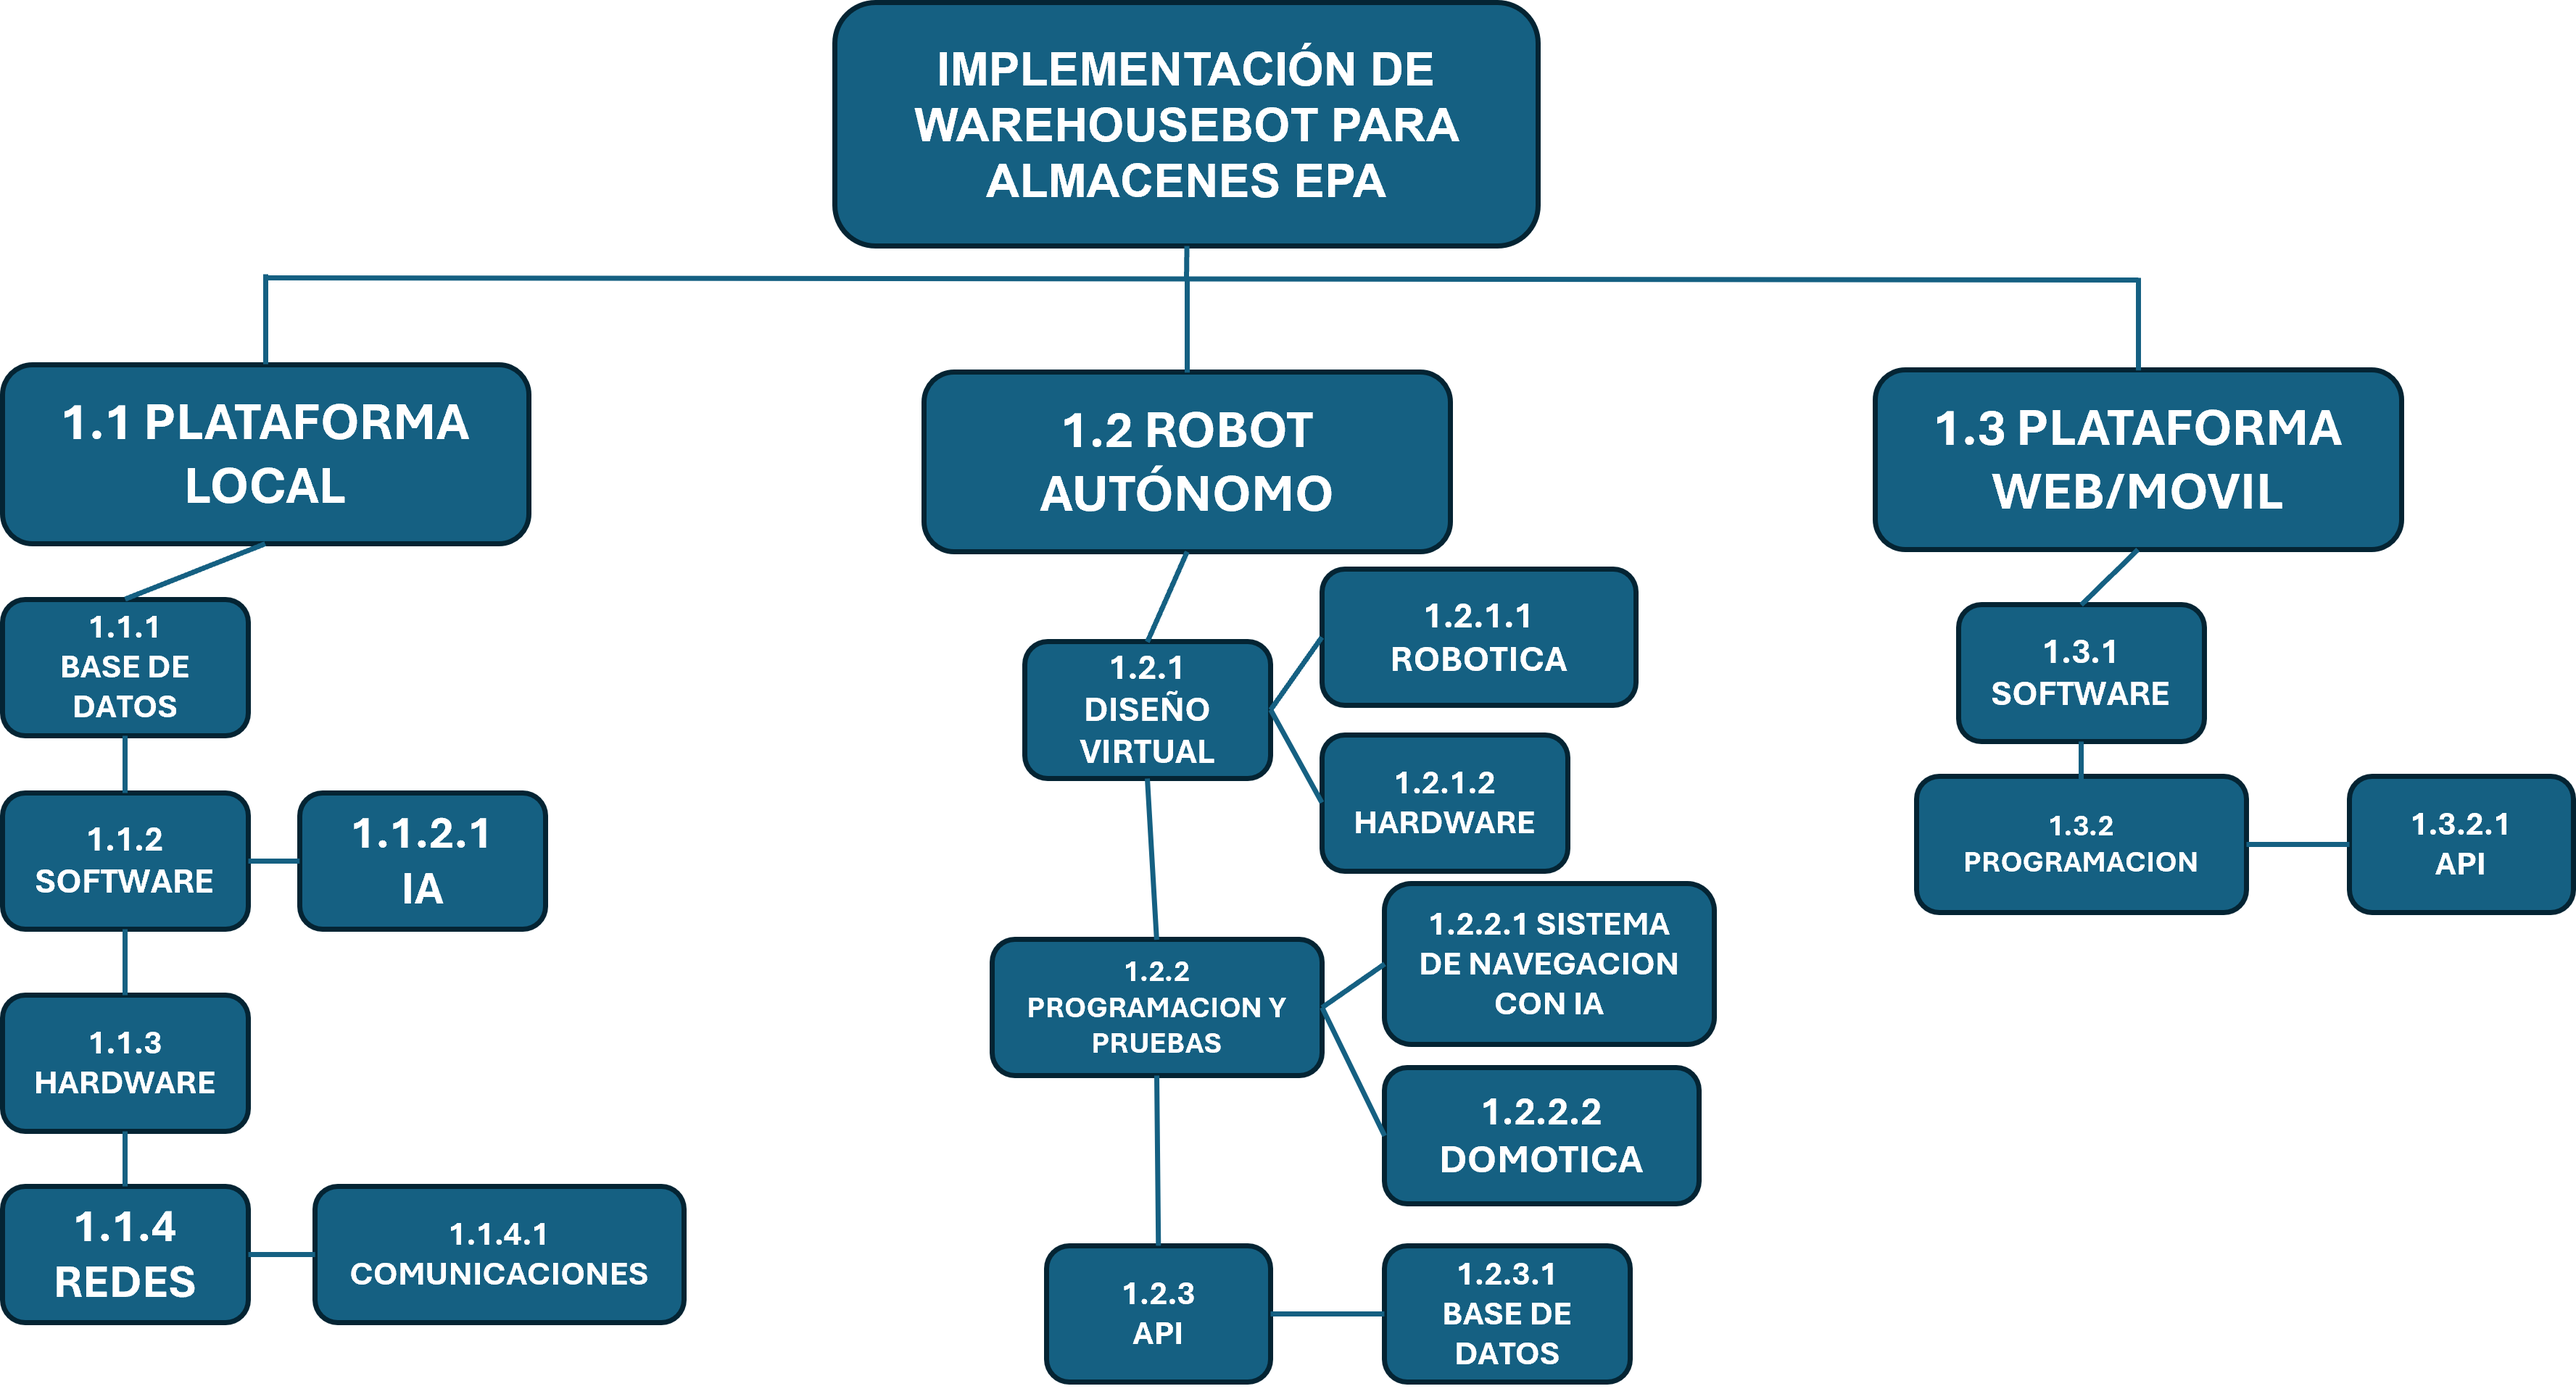
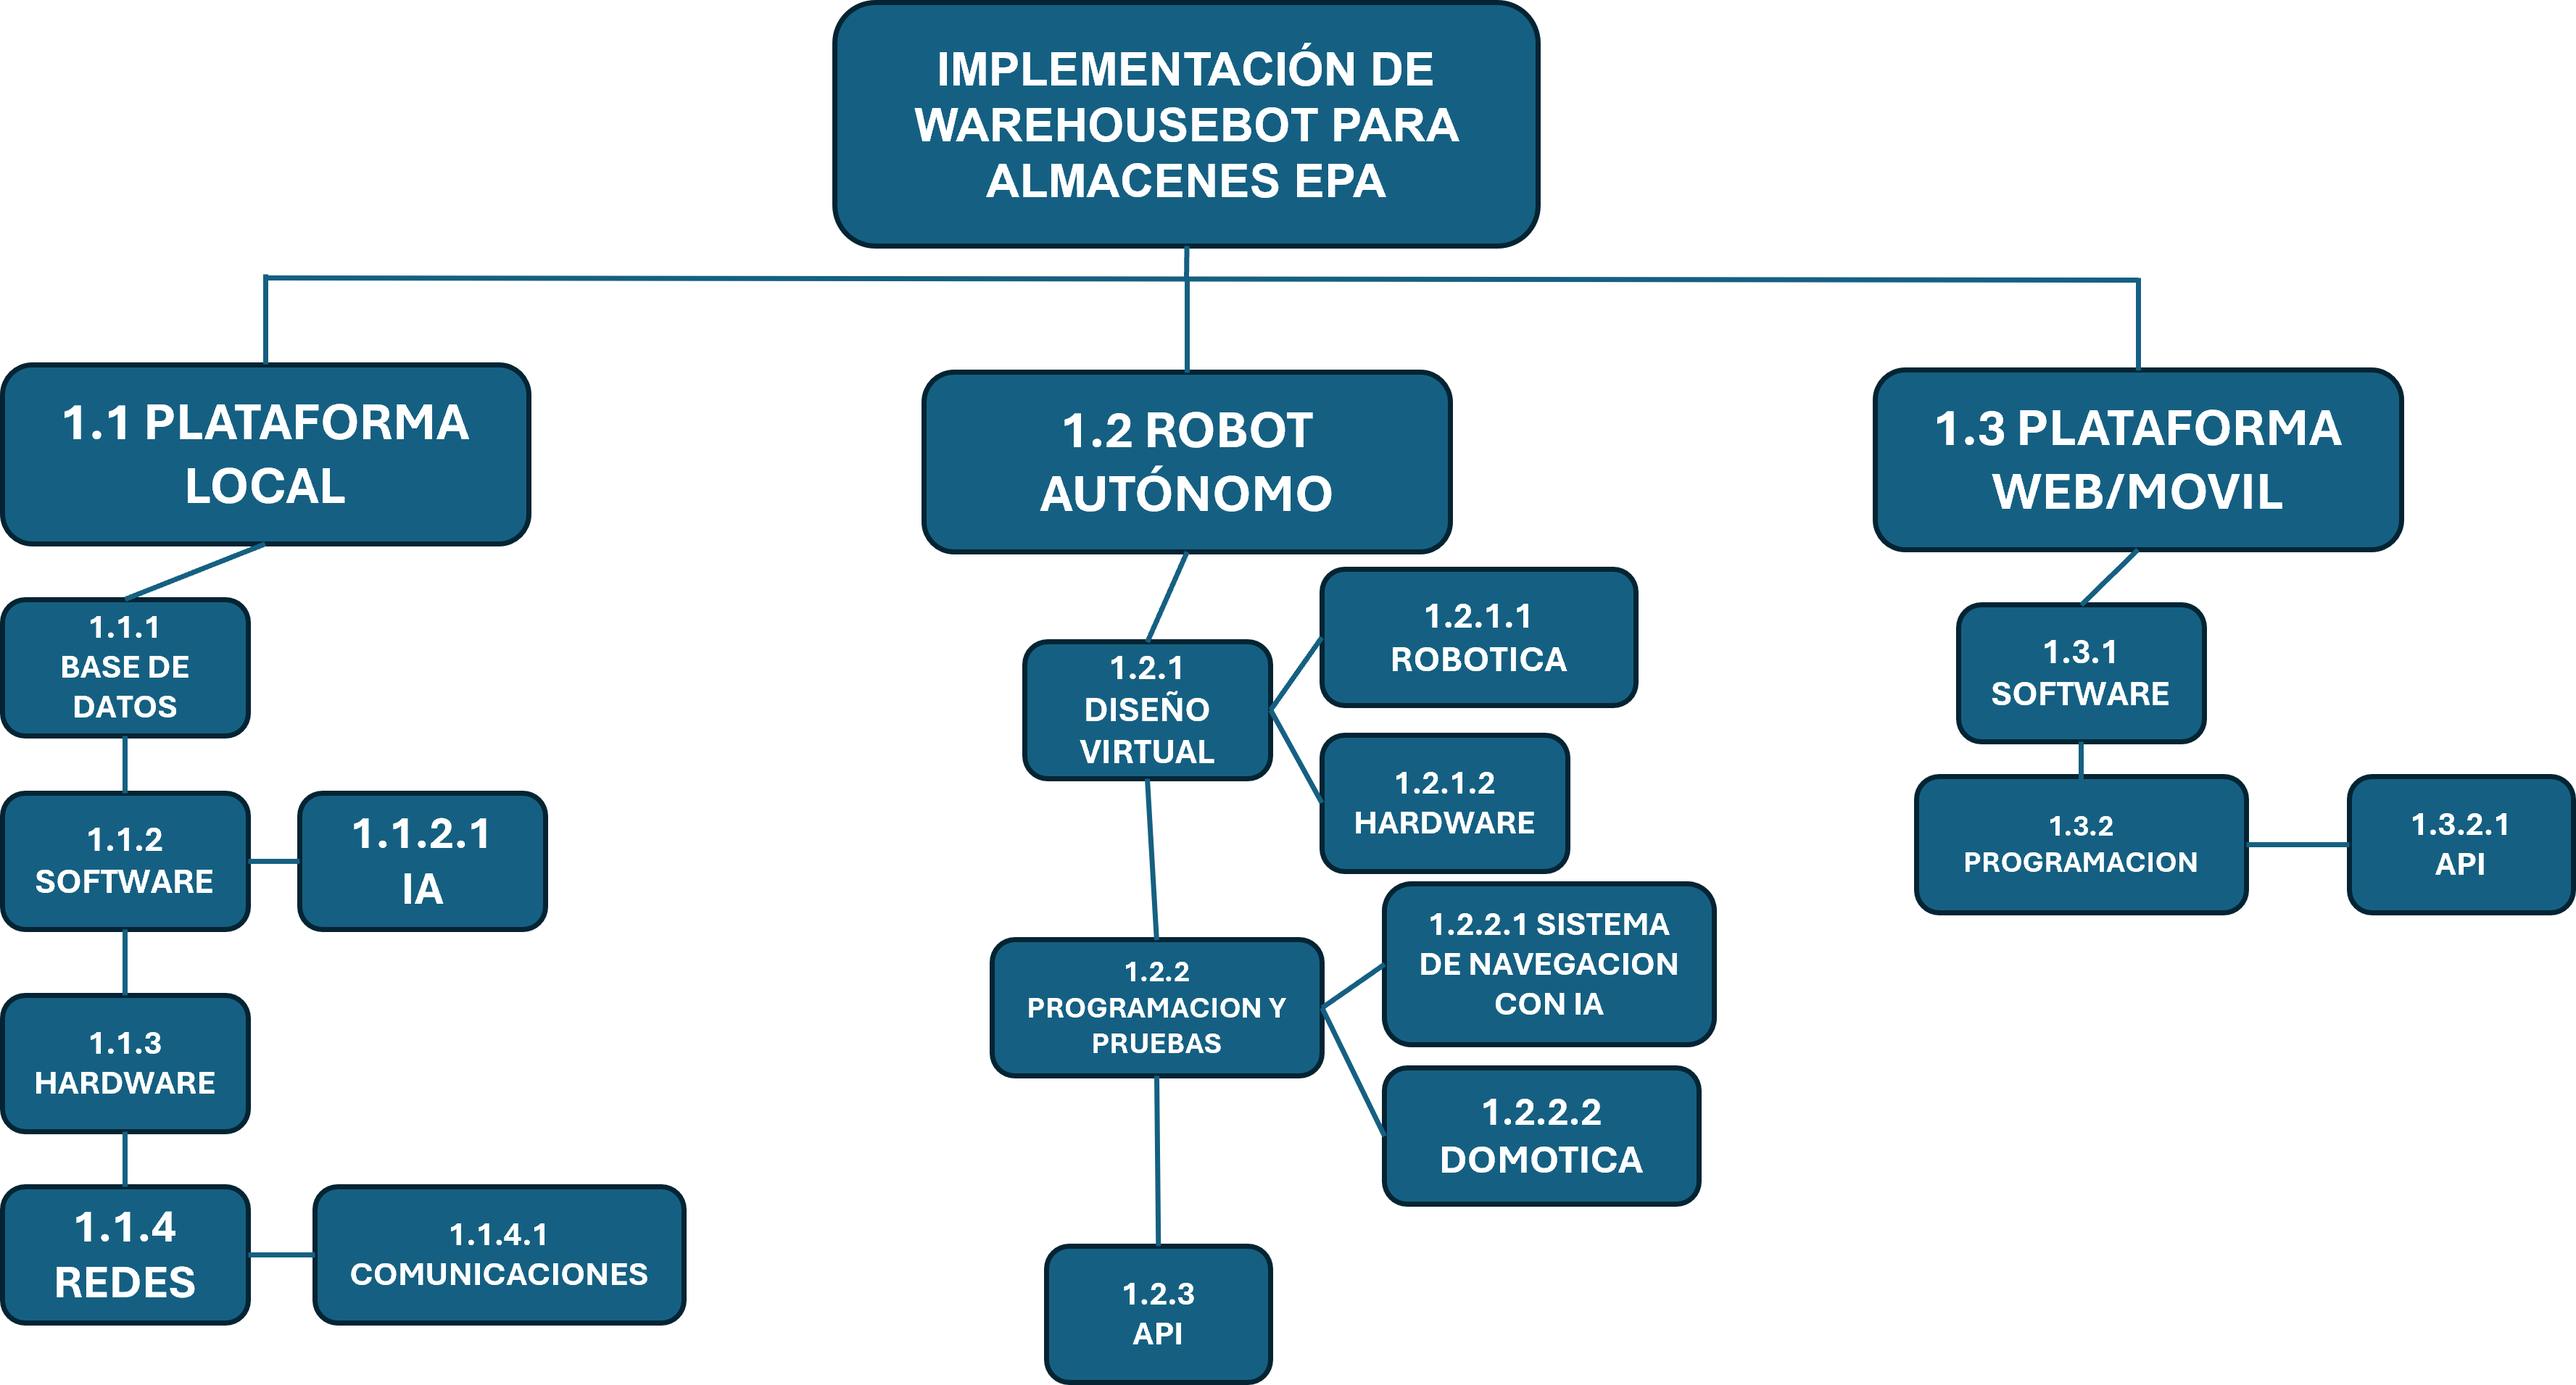
Update roadmap

diff --git a/EDTROADMAP.html b/EDTROADMAP.html
@@ -108,7 +108,7 @@
                 </tr>
                 <tr>
                     <td><strong>Duración</strong></td>
-                    <td>44 horas (6 días hábiles).</td>
+                    <td>6 días hábiles.</td>
                 </tr>
                 <tr>
                     <td><strong>Hitos</strong></td>
@@ -162,7 +162,7 @@
                 </tr>
                 <tr>
                     <td><strong>Duración</strong></td>
-                    <td>16 horas (2 días hábiles).</td>
+                    <td>2 días hábiles.</td>
                 </tr>
                 <tr>
                     <td><strong>Hitos</strong></td>
@@ -216,7 +216,7 @@
                 </tr>
                 <tr>
                     <td><strong>Duración</strong></td>
-                    <td>28 horas (4 días hábiles).</td>
+                    <td>4 días hábiles.</td>
                 </tr>
                 <tr>
                     <td><strong>Hitos</strong></td>
@@ -269,7 +269,7 @@
                 </tr>
                 <tr>
                     <td><strong>Duración</strong></td>
-                    <td>16 horas (2 días hábiles).</td>
+                    <td>2 días hábiles.</td>
                 </tr>
                 <tr>
                     <td><strong>Hitos</strong></td>
@@ -323,7 +323,7 @@
                 </tr>
                 <tr>
                     <td><strong>Duración</strong></td>
-                    <td>48 horas (6 días hábiles, desde la semana 3 hasta la semana 4).</td>
+                    <td>6 días hábiles.</td>
                 </tr>
                 <tr>
                     <td><strong>Hitos</strong></td>
@@ -377,7 +377,7 @@
                 </tr>
                 <tr>
                     <td><strong>Duración</strong></td>
-                    <td>24 horas (3 días hábiles, en paralelo con la configuración de redes).</td>
+                    <td>3 días hábiles.</td>
                 </tr>
                 <tr>
                     <td><strong>Hitos</strong></td>
@@ -399,7 +399,7 @@
                 </tr>
                 <tr>
                     <td><strong>Última Actualización</strong></td>
-                    <td></td>
+                    <td>1 marzo 2025</td>
                 </tr>
                 <tr>
                     <td><strong>Responsable</strong></td>
@@ -427,7 +427,7 @@
                 </tr>
                 <tr>
                     <td><strong>Duración</strong></td>
-                    <td>176 horas (6 semanas).</td>
+                    <td>22 días hábiles.</td>
                 </tr>
                 <tr>
                     <td><strong>Hitos</strong></td>
@@ -449,7 +449,7 @@
                 </tr>
                 <tr>
                     <td><strong>Última Actualización</strong></td>
-                    <td></td>
+                    <td>26 abril 2025</td>
                 </tr>
                 <tr>
                     <td><strong>Responsable</strong></td>
@@ -477,7 +477,7 @@
                 </tr>
                 <tr>
                     <td><strong>Duración</strong></td>
-                    <td>352 horas (8 semanas)</td>
+                    <td>44 días hábiles.</td>
                 </tr>
                 <tr>
                     <td><strong>Hitos</strong></td>
@@ -499,7 +499,7 @@
                 </tr>
                 <tr>
                     <td><strong>Última Actualización</strong></td>
-                    <td></td>
+                    <td>26 abril 2025</td>
                 </tr>
                 <tr>
                     <td><strong>Responsable</strong></td>
@@ -527,7 +527,7 @@
                 </tr>
                 <tr>
                     <td><strong>Duración</strong></td>
-                    <td>352 horas (8 semanas).</td>
+                    <td>44 días hábiles.</td>
                 </tr>
                 <tr>
                     <td><strong>Hitos</strong></td>
@@ -549,7 +549,7 @@
                 </tr>
                 <tr>
                     <td><strong>Última Actualización</strong></td>
-                    <td></td>
+                    <td>24 mayo 2025</td>
                 </tr>
                 <tr>
                     <td><strong>Responsable</strong></td>
@@ -577,7 +577,7 @@
                 </tr>
                 <tr>
                     <td><strong>Duración</strong></td>
-                    <td>352 horas (8 semanas).</td>
+                    <td>44 días hábiles.</td>
                 </tr>
                 <tr>
                     <td><strong>Hitos</strong></td>
@@ -599,7 +599,7 @@
                 </tr>
                 <tr>
                     <td><strong>Última Actualización</strong></td>
-                    <td></td>
+                    <td>24 mayo 2025</td>
                 </tr>
                 <tr>
                     <td><strong>Responsable</strong></td>
@@ -627,7 +627,7 @@
                 </tr>
                 <tr>
                     <td><strong>Duración</strong></td>
-                    <td>352 horas (8 semanas).</td>
+                    <td>44 días hábiles.</td>
                 </tr>
                 <tr>
                     <td><strong>Hitos</strong></td>
@@ -649,7 +649,7 @@
                 </tr>
                 <tr>
                     <td><strong>Última Actualización</strong></td>
-                    <td></td>
+                    <td>24 mayo 2025</td>
                 </tr>
                 <tr>
                     <td><strong>Responsable</strong></td>
@@ -677,7 +677,7 @@
                 </tr>
                 <tr>
                     <td><strong>Duración</strong></td>
-                    <td>352 horas (8 semanas).</td>
+                    <td>44 días hábiles.</td>
                 </tr>
                 <tr>
                     <td><strong>Hitos</strong></td>
@@ -699,7 +699,7 @@
                 </tr>
                 <tr>
                     <td><strong>Última Actualización</strong></td>
-                    <td></td>
+                    <td>17 mayo 2025</td>
                 </tr>
                 <tr>
                     <td><strong>Responsable</strong></td>
@@ -727,61 +727,11 @@
                 </tr>
                 <tr>
                     <td><strong>Duración</strong></td>
-                    <td>132 horas (3 semanas).</td>
+                    <td>17 días hábiles.</td>
                 </tr>
                 <tr>
                     <td><strong>Hitos</strong></td>
                     <td>Implementada el sábado 17 de mayo de 2025.</td>
-                </tr>
-            </tbody>
-        </table>
-
-        <table class="table table-bordered mt-4">
-            <thead>
-                <tr>
-                    <th colspan="2" class="text-center bg-primary text-white">Detalles del Proyecto - ID#1.2.3.1</th>
-                </tr>
-            </thead>
-            <tbody>
-                <tr>
-                    <td><strong>Cuenta control ID</strong></td>
-                    <td>#1.2</td>
-                </tr>
-                <tr>
-                    <td><strong>Última Actualización</strong></td>
-                    <td></td>
-                </tr>
-                <tr>
-                    <td><strong>Responsable</strong></td>
-                    <td>Julio Sánchez</td>
-                </tr>
-                <tr>
-                    <td><strong>Descripción</strong></td>
-                    <td>Base de Datos</td>
-                </tr>
-                <tr>
-                    <td><strong>Criterio de aceptación</strong></td>
-                    <td>Base de datos estructurada y operativa.</td>
-                </tr>
-                <tr>
-                    <td><strong>Entregables</strong></td>
-                    <td>Modelo relacional, scripts SQL, pruebas de carga.</td>
-                </tr>
-                <tr>
-                    <td><strong>Supuestos</strong></td>
-                    <td>Se cuenta con un gestor de bases de datos adecuado.</td>
-                </tr>
-                <tr>
-                    <td><strong>Recursos Asignados</strong></td>
-                    <td>Servidores de bases de datos, herramientas de modelado.</td>
-                </tr>
-                <tr>
-                    <td><strong>Duración</strong></td>
-                    <td>44 horas (1 semana).</td>
-                </tr>
-                <tr>
-                    <td><strong>Hitos</strong></td>
-                    <td>Implementación finalizada el sábado 17 de mayo de 2025.</td>
                 </tr>
             </tbody>
         </table>
@@ -799,7 +749,7 @@
                 </tr>
                 <tr>
                     <td><strong>Última Actualización</strong></td>
-                    <td></td>
+                    <td>13 junio 2025</td>
                 </tr>
                 <tr>
                     <td><strong>Responsable</strong></td>
@@ -828,7 +778,7 @@
                 </tr>
                 <tr>
                     <td><strong>Duración</strong></td>
-                    <td>264 horas.</td>
+                    <td>33 días hábiles.</td>
                 </tr>
                 <tr>
                     <td><strong>Hitos</strong></td>
@@ -850,7 +800,7 @@
                 </tr>
                 <tr>
                     <td><strong>Última Actualización</strong></td>
-                    <td></td>
+                    <td>12 junio 2025</td>
                 </tr>
                 <tr>
                     <td><strong>Responsable</strong></td>
@@ -879,11 +829,11 @@
                 </tr>
                 <tr>
                     <td><strong>Duración</strong></td>
-                    <td>264 horas.</td>
+                    <td>36 días hábiles.</td>
                 </tr>
                 <tr>
                     <td><strong>Hitos</strong></td>
-                    <td>13 de junio entrega de la programación.</td>
+                    <td>12 de junio entrega de la programación.</td>
                 </tr>
             </tbody>
         </table>
@@ -901,7 +851,7 @@
                 </tr>
                 <tr>
                     <td><strong>Última Actualización</strong></td>
-                    <td></td>
+                    <td>12 junio 2025</td>
                 </tr>
                 <tr>
                     <td><strong>Responsable</strong></td>
@@ -931,11 +881,11 @@
                 </tr>
                 <tr>
                     <td><strong>Duración</strong></td>
-                    <td>264 horas.</td>
+                    <td>36 días hábiles.</td>
                 </tr>
                 <tr>
                     <td><strong>Hitos</strong></td>
-                    <td>13 de junio entrega de la programación.</td>
+                    <td>12 de junio entrega de la programación.</td>
                 </tr>
             </tbody>
         </table>
